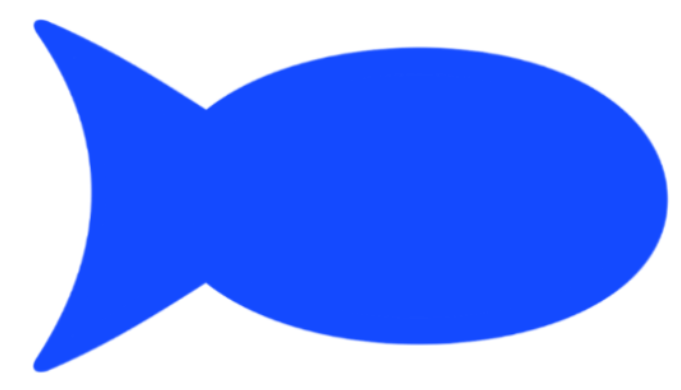
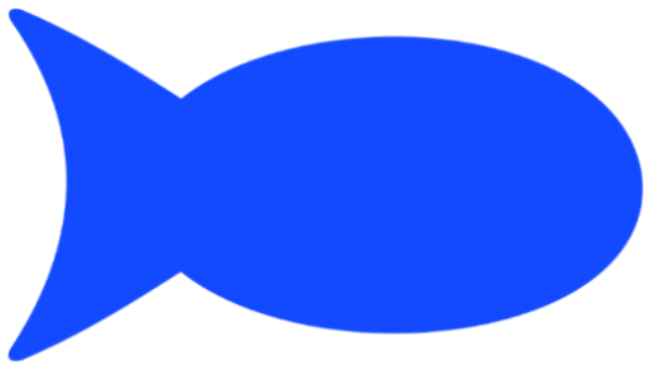
Really minor animations lol

Changed region(s): [[0.0, 0.0, 1.0, 0.9864], [0.0924, 0.7772, 0.2465, 0.9266]]

diff --git a/frontend/finema/src/app/components/SeatCard.tsx b/frontend/finema/src/app/components/SeatCard.tsx
@@ -3,6 +3,7 @@ import Image from 'next/image'
 import fish from '../images/fish.png'
 import deadFish from '../images/deadFish.png'
 import styles from './SeatCard.module.css'
+import { motion } from "motion/react"
 
 interface Seat {
   id:number,
@@ -32,7 +33,7 @@ export default function SeatCard({ seatNum, reserved, onClick }: SeatCardProps) 
   const deadImage = (
     <Image
       src={deadFish}
-      height={50}
+      height={10}
       width={50}
       alt="fish"
     /> 
@@ -40,15 +41,34 @@ export default function SeatCard({ seatNum, reserved, onClick }: SeatCardProps) 
   const aliveImage = (
     <Image
       src={fish}
-      height={50}
+      height={10}
       width={50}
       alt="fish"
     /> 
   )
 
   return (
-    <div onClick={handleClick} className={styles.main_body}>
+    <motion.div 
+      onClick={handleClick} 
+      className={styles.main_body}
+      animate={{
+        scale: 1,
+        x: 0,
+        y: 0,
+      }}
+      whileHover={{
+        scale: [1.5, 1.5, 1.5, 1.5, 1.5, 1.5, 1.5, 1.5],
+        x: [0,  5,  2, -5,  1, 1, -3, 0],
+        y: [0, -5, -3, -4, -4, 4, -3, 0],
+        transition:{
+          time: [0, .1, .3, .5, .6, .8, .9, 1],
+          duration: 4,
+          ease: ["easeIn", "easeOut"],
+          repeat: Infinity,
+        }
+      }}
+    >
       {isReserved ? deadImage : aliveImage}
-    </div>
+    </motion.div>
   );
 }

diff --git a/frontend/finema/src/app/components/TopBar.tsx b/frontend/finema/src/app/components/TopBar.tsx
@@ -14,14 +14,9 @@ interface Theater {
 const TopBar = ({ loggedIn = false, showEditProfile = true }: any) => {
   const router = useRouter();
   const [token, setToken] = useToken('token');
-  const [theaters, setTheaters] = useState<Theater[]>([]);
-  const [selectedTheater, setSelectedTheater] = useState<number | null>(
-    () => {
-      // Retrieve the previously selected theater from localStorage (if available)
-      const storedTheater = localStorage.getItem('selectedTheater');
-      return storedTheater ? parseInt(storedTheater) : null;
-    }
-  );
+  // const [storedTheater, setStoredTheater] = useToken('selectedTheater');
+  // const [theaters, setTheaters] = useState<Theater[]>([]);
+  // const [selectedTheater, setSelectedTheater] = useState<number | null>(parseInt(storedTheater));
 
   //commenting this out cuz i think we only need one theater
 
@@ -57,7 +52,7 @@ const TopBar = ({ loggedIn = false, showEditProfile = true }: any) => {
   const handleTheaterChange = (event: React.ChangeEvent<HTMLSelectElement>) => {
     const theaterId = parseInt(event.target.value);
     setSelectedTheater(theaterId);
-    localStorage.setItem('selectedTheater', theaterId.toString()); // Save the selected theater to localStorage
+    setStoredTheater(theaterId.toString()) // Save the selected theater to localStorage
   };
 
   */

diff --git a/frontend/finema/src/app/components/MovieInfoPopup.tsx b/frontend/finema/src/app/components/MovieInfoPopup.tsx
@@ -2,6 +2,7 @@ import { useEffect, useRef, useState } from "react";
 import Button from './Button'
 import styles from './MovieInfoPopup.module.css'
 import { useRouter } from 'next/navigation'
+import Link from 'next/link'
 
 interface Review {
     id: number,
@@ -136,7 +137,13 @@ const MovieInfoPopup = ({
                     </ul>
                 </section>
                 <div className={styles.button}>
-                    <Button onClick={goToBooking}> Book Tickets </Button>
+                    <Link href={{
+                        pathname: '/show-time',
+                        query: {
+                            name: name,
+                        },
+                        }}> Book Tickets 
+                    </Link>
                 </div>
             </section>
         </section>

diff --git a/frontend/finema/src/app/seat-selection/SeatSelection.module.css b/frontend/finema/src/app/seat-selection/SeatSelection.module.css
@@ -43,7 +43,7 @@
     justify-content: center;
     align-content: space-evenly;
     gap: 30px;
-    margin-bottom: 30px;
+    margin-top: 10px;
     font-size: xx-large;
 }
 
@@ -53,7 +53,7 @@
     justify-content: center;
     align-content: space-evenly;
     gap: 30px;
-    margin-bottom: 30px;
+    margin-top: 30px;
     font-size: xx-large;
 }
 
@@ -63,6 +63,7 @@
     justify-content: center;
     align-content: space-evenly;
     gap: 30px;
+    margin-top: 30px;
     font-size: xx-large;
 }
 

diff --git a/frontend/finema/src/app/seat-selection/SeatSelection.tsx b/frontend/finema/src/app/seat-selection/SeatSelection.tsx
@@ -4,9 +4,6 @@ import styles from './SeatSelection.module.css'
 import Button from '../components/Button'
 import { useRouter, useSearchParams } from 'next/navigation'
 import SeatCard from '../components/SeatCard'
-import fish from '../images/fish.png'
-import Image from 'next/image'
-import deadFish from '../images/deadFish.png'
 
 
 interface Seat {

diff --git a/frontend/finema/src/app/components/MovieCard.tsx b/frontend/finema/src/app/components/MovieCard.tsx
@@ -2,7 +2,6 @@
 import React, { useState, useEffect } from 'react';
 import styles from './MovieCard.module.css';
 import MovieInfoPopup from './MovieInfoPopup';
-import Button from './Button';
 import { useRouter } from 'next/navigation';
 import Link from 'next/link'
 

diff --git a/frontend/finema/src/app/components/SeatCard.module.css b/frontend/finema/src/app/components/SeatCard.module.css
@@ -1,5 +1,6 @@
 .main_body {
     cursor: pointer;
+    padding-top: 10px;
     width: 50px;
     height: 50px;
 }
